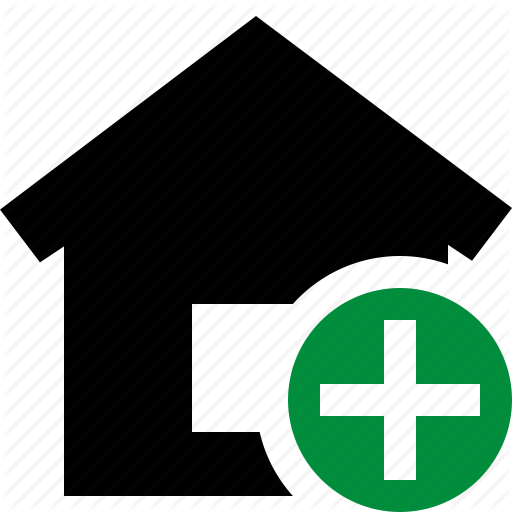
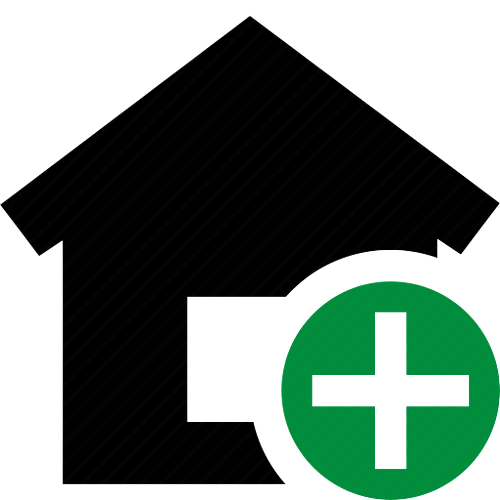
Fix UI

diff --git a/admin/quanlyhoadon.html b/admin/quanlyhoadon.html
@@ -25,7 +25,7 @@
             <div class="col">
               <div class="bordermain">
                 <a href="../admin/bill.php">
-                  <img class="img-thumbnail" src="./img/bill.jpg" alt="">                
+                  <img class="img-thumbnail" src="./img/bill.png" alt="">                
                 </a> 
                 <h5>Tạo hóa đơn</h5>
               </div>

diff --git a/admin/quanlyphong.html b/admin/quanlyphong.html
@@ -19,7 +19,7 @@
 
               <div class="bordermain">
                 <a href="./danhsachphong.php">
-                  <img class="img-thumbnail" src="./img/danhsachphong.jpg" alt="">
+                  <img class="img-thumbnail" src="./img/danhsachphong.png" alt="">
 
                 </a>
                 <h5>Danh sách phòng</h5>

diff --git a/user/index.php b/user/index.php
@@ -29,7 +29,7 @@ include '../php/check_ss_user.php';
                             <a href="../user/UserBill.php" class="btn btn-primary">
 
                                 <img class="card-img-top" style="width: 300px; height: 300px;"
-                                    src="../user/img/bill.jpg"
+                                    src="../user/img/bill.png"
                                     alt="" >
                                 <h5 class="card-title">Xem hóa đơn</h5>
                                 
@@ -45,7 +45,7 @@ include '../php/check_ss_user.php';
 
                             <a href="../user/danhsachphongUser.php" class="btn btn-primary">
                                 <img class="card-img-top" style="width: 300px; height: 300px;"
-                                    src="../user/img/danhsachphong.jpg"
+                                    src="../user/img/danhsachphong.png"
                                     alt="">
                                 <h5 class="card-title">Xem phòng trống</h5>
                             </a>

diff --git a/admin/index.php b/admin/index.php
@@ -29,7 +29,7 @@ include '../php/check_ss_admin.php';
             <div class="col">
               <div class="bordermain">
                 <a href="../admin/quanlyhoadon.html">
-                  <img class="img-thumbnail" src="./img/bill.jpg" alt="">
+                  <img class="img-thumbnail" src="./img/bill.png" alt="">
                  
                 </a>
                 <h5> Quản lý hóa đơn</h5>
